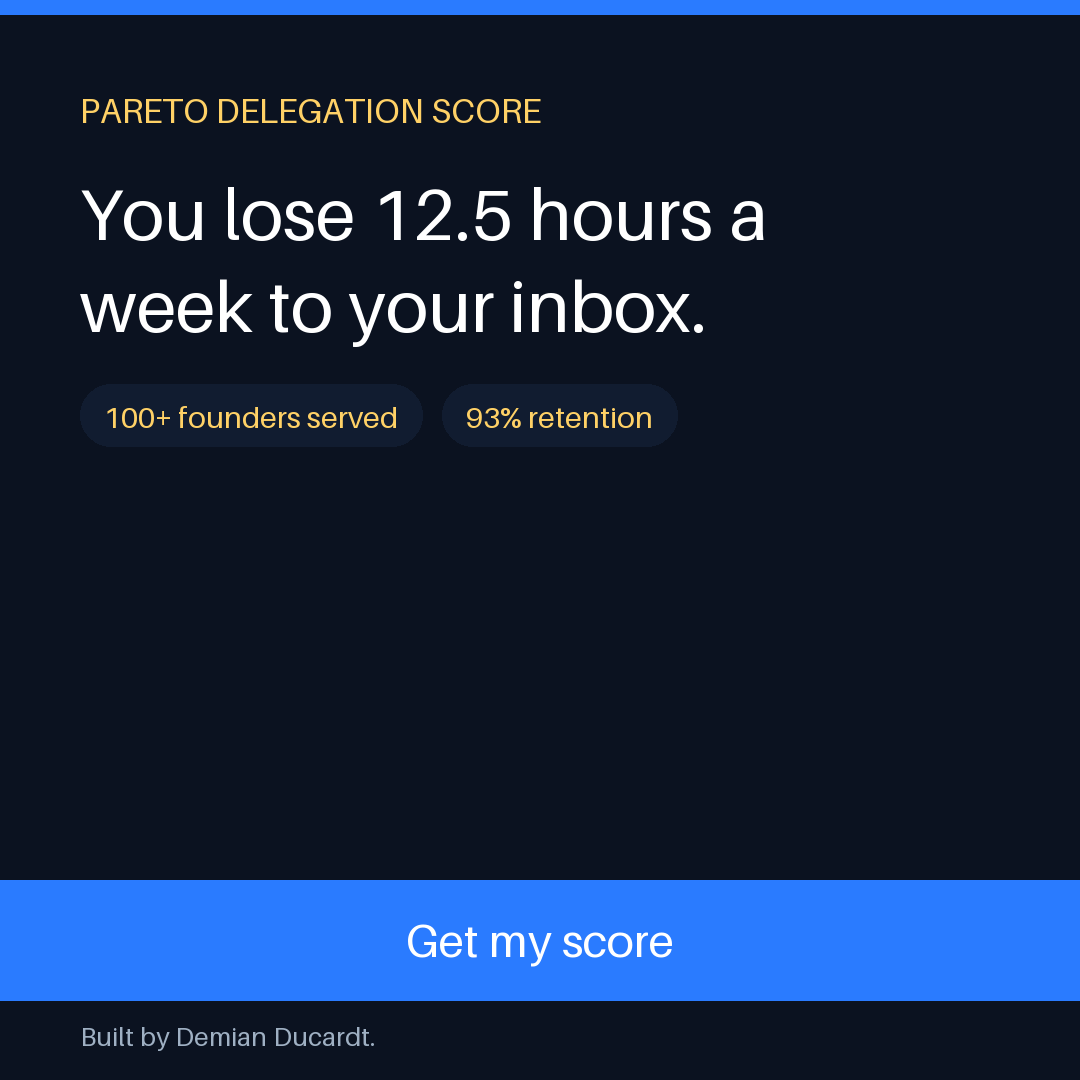
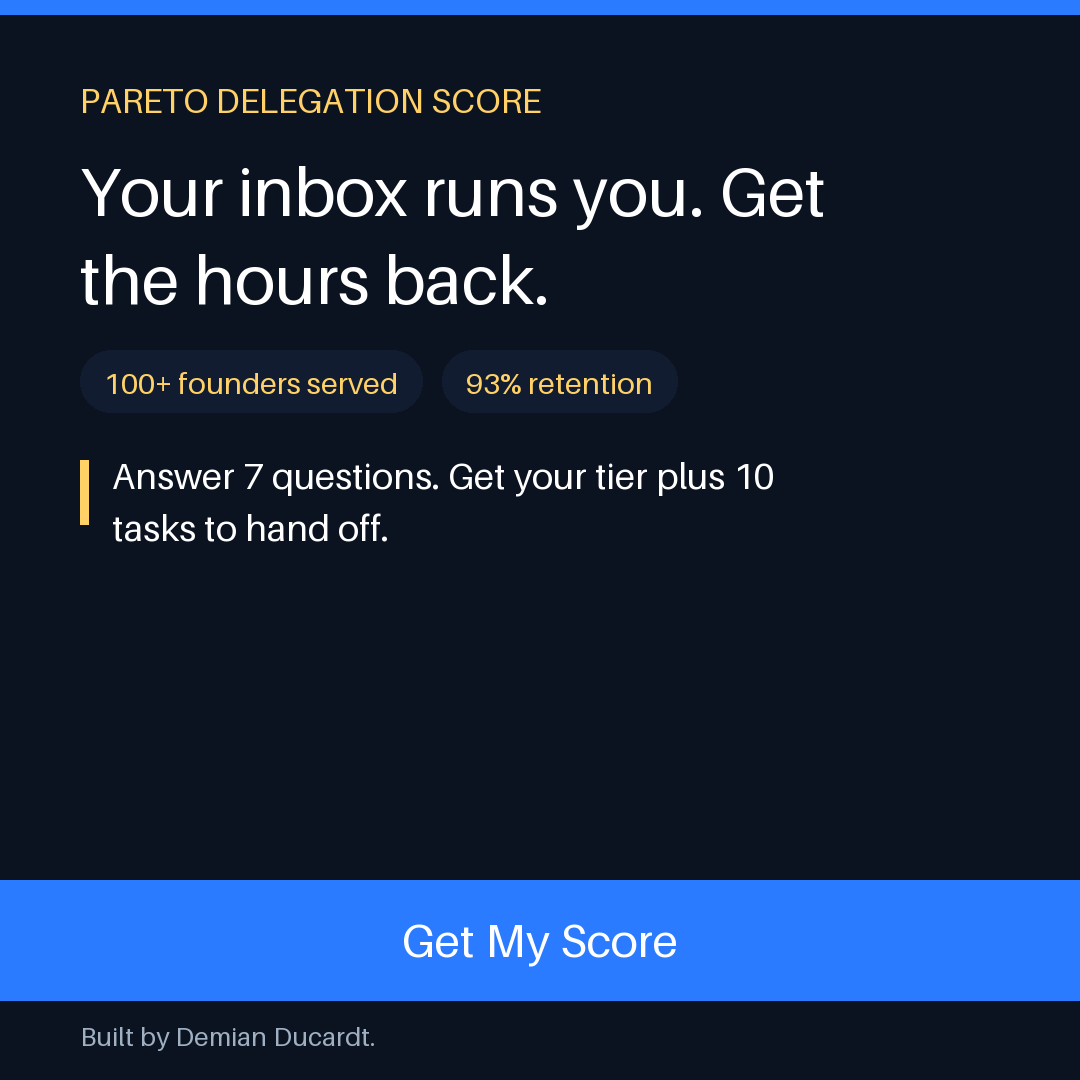
Ad review crew pass, rebuilt 5 PNGs with payoff subhead

diff --git a/08_Ads/ads_pack.md b/08_Ads/ads_pack.md
@@ -9,16 +9,16 @@ related: ["MOC.md", "../06_Funnel/index.html", "../05_LeadMagnet/quiz.html"]
 
 Title: 5 ads. Owner Demian Ducardt. Palette Pareto dark plus blue. Style real founder photo.
 
-Ad 1 hook inbox: You lose 12.5 hours weekly to inbox. Offer: 2 min Delegation Score. Qualifier: 300k plus companies. Proof: 100 plus founders, 93 percent retention. Mechanism: quiz routes to email pack. CTA: Get my score. Image prompt: founder at desk, chaos to calm, dark blue, morning light.
+Ad 1 hook inbox: Your inbox runs you. Get the hours back. Offer: 2 min Delegation Score. Qualifier: 300k plus companies. Proof: 100 plus founders, 93 percent retention. Mechanism: quiz routes to email pack. CTA: Get my score. Image prompt: founder at desk, chaos to calm, dark blue, morning light.
 
-Ad 2 AI behind: Team uses AI at random. Offer: Bottleneck Audit. Qualifier: owner led, no SOPs. Proof: 250 plus pros, 3 matches in 24 hours. Mechanism: 7 questions plus tiers. CTA: Audit my team. Image: team call grid, one operator dashboard closeup.
+Ad 2 AI behind: Your team uses AI at random. You clean up. Offer: Bottleneck Audit. Qualifier: owner led, no SOPs. Proof: 250 plus pros, 3 matches in 24 hours. Mechanism: 7 questions plus tiers. CTA: Audit my team. Image: team call grid, one operator dashboard closeup.
 
-Ad 3 burned hirer: 7 USD VA cost you more management. Offer: trust route with operator. Qualifier: burned before. Proof: 3 matches in 24 hours. Mechanism: email CTA, no calendar maze. CTA: Send my pack. Image: crossed out cheap VA checklist, clean Pareto card.
+Ad 3 burned hirer: Cheap help cost you weekends. Offer: trust route with operator. Qualifier: burned before. Proof: 3 matches in 24 hours, 100 plus founders served. Mechanism: email CTA, no calendar maze. CTA: Send my pack. Image: crossed out cheap VA checklist, clean Pareto card.
 
-Ad 4 company angle: Company behind on AI pays founder tax. Offer: company pack plus SOP template. Qualifier: 300k plus, 1 plus team, solo OK. Proof: Freedom 40 guarantee. Mechanism: quiz plus 3 emails. CTA: Get company pack. Image: office board with SOP lanes.
+Ad 4 company angle: Every task waits for you when no one owns the handoff. Offer: company pack plus SOP template. Qualifier: 300k plus, 1 plus team, solo OK. Proof: 100 plus founders, 93 percent retention. Mechanism: quiz plus 3 emails. CTA: Get company pack. Image: office board with SOP lanes.
 
 Ad 5 second brain: Stop running the company from memory. Offer: Delegation Score pack plus SOP system. Qualifier: owner led, no SOPs. Proof: 40 plus hours trained, 250 plus pros. Mechanism: quiz plus email pack. CTA: Get my pack. Image: ad5_second_brain.png, operator desk with system lanes, dark blue. Owner may swap this angle, files rename cleanly.
 
-All copy ends with Built by Demian Ducardt on visuals. No spend. Copy plus image prompt only.
+All copy ends with Built by Demian Ducardt on visuals. All 5 carry the payoff subhead. No spend. Copy plus image prompt only.
 
 Built by Demian Ducardt.
